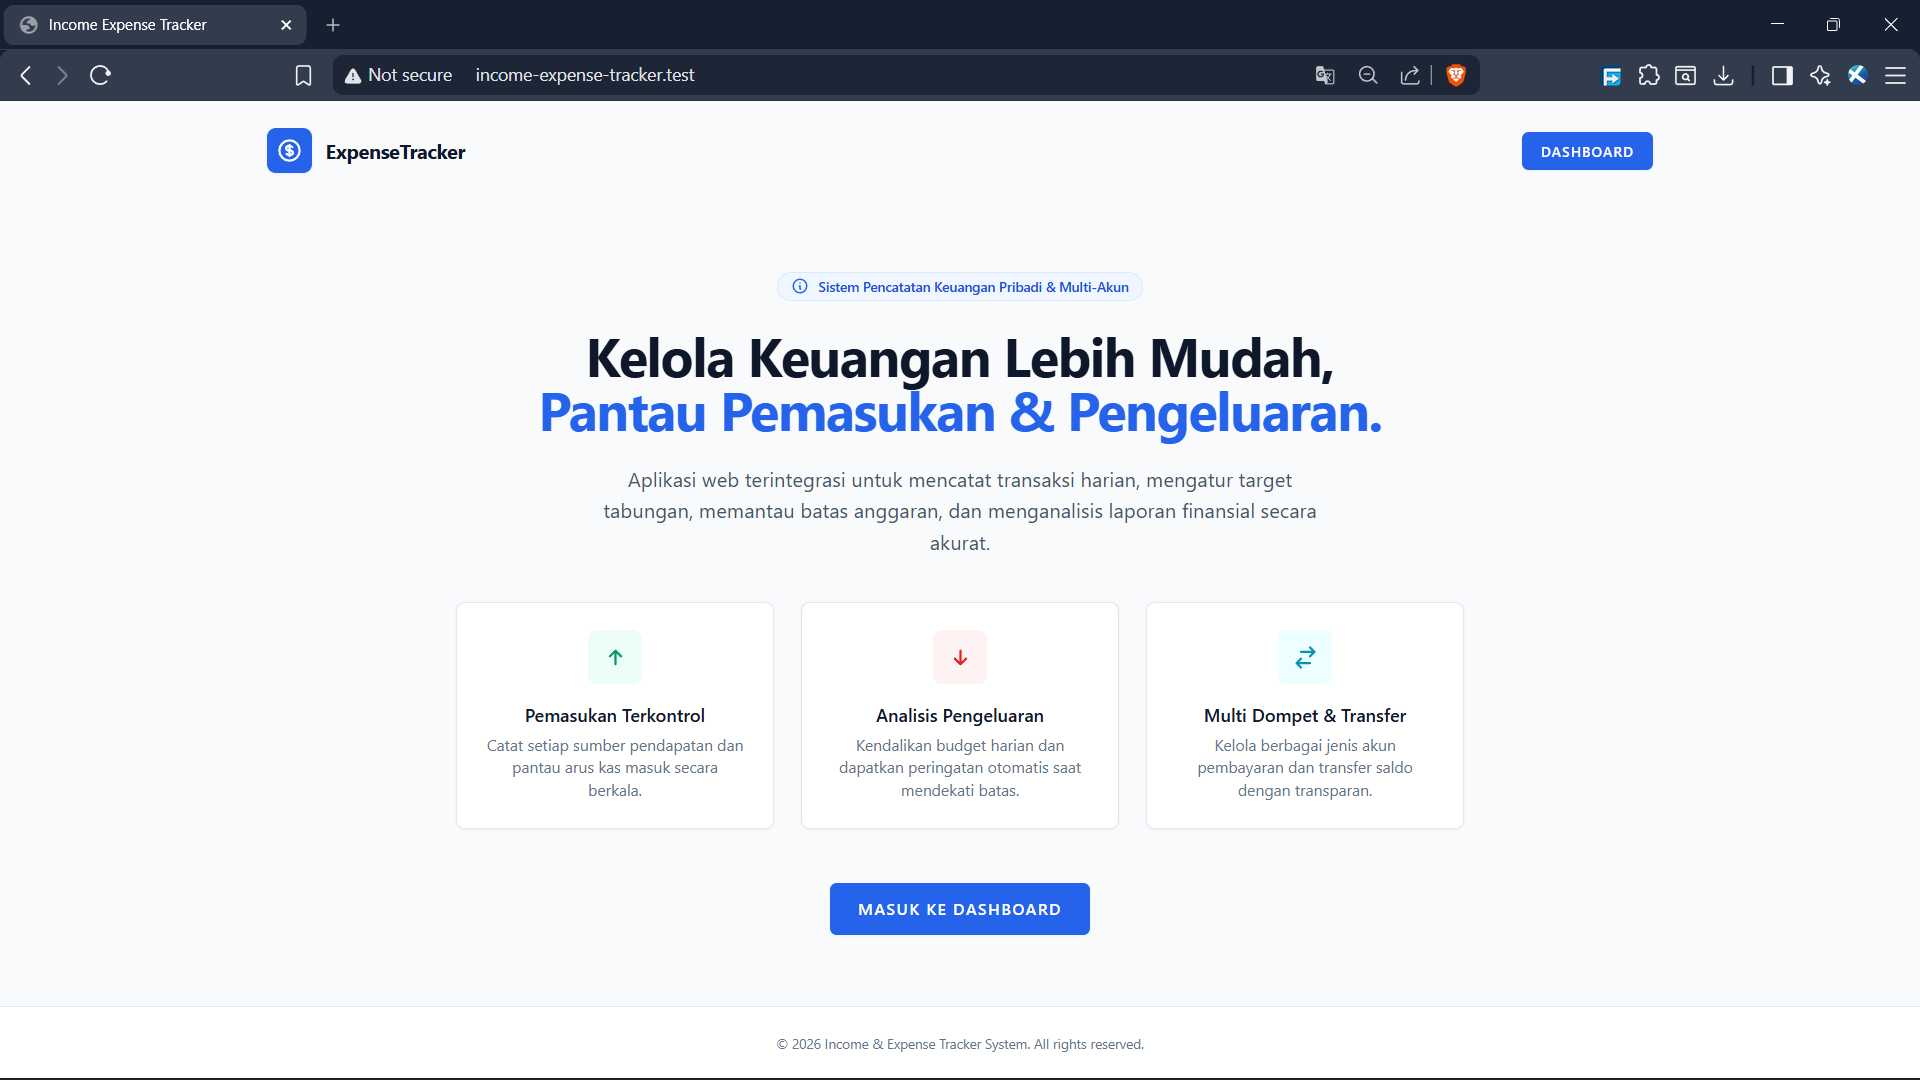
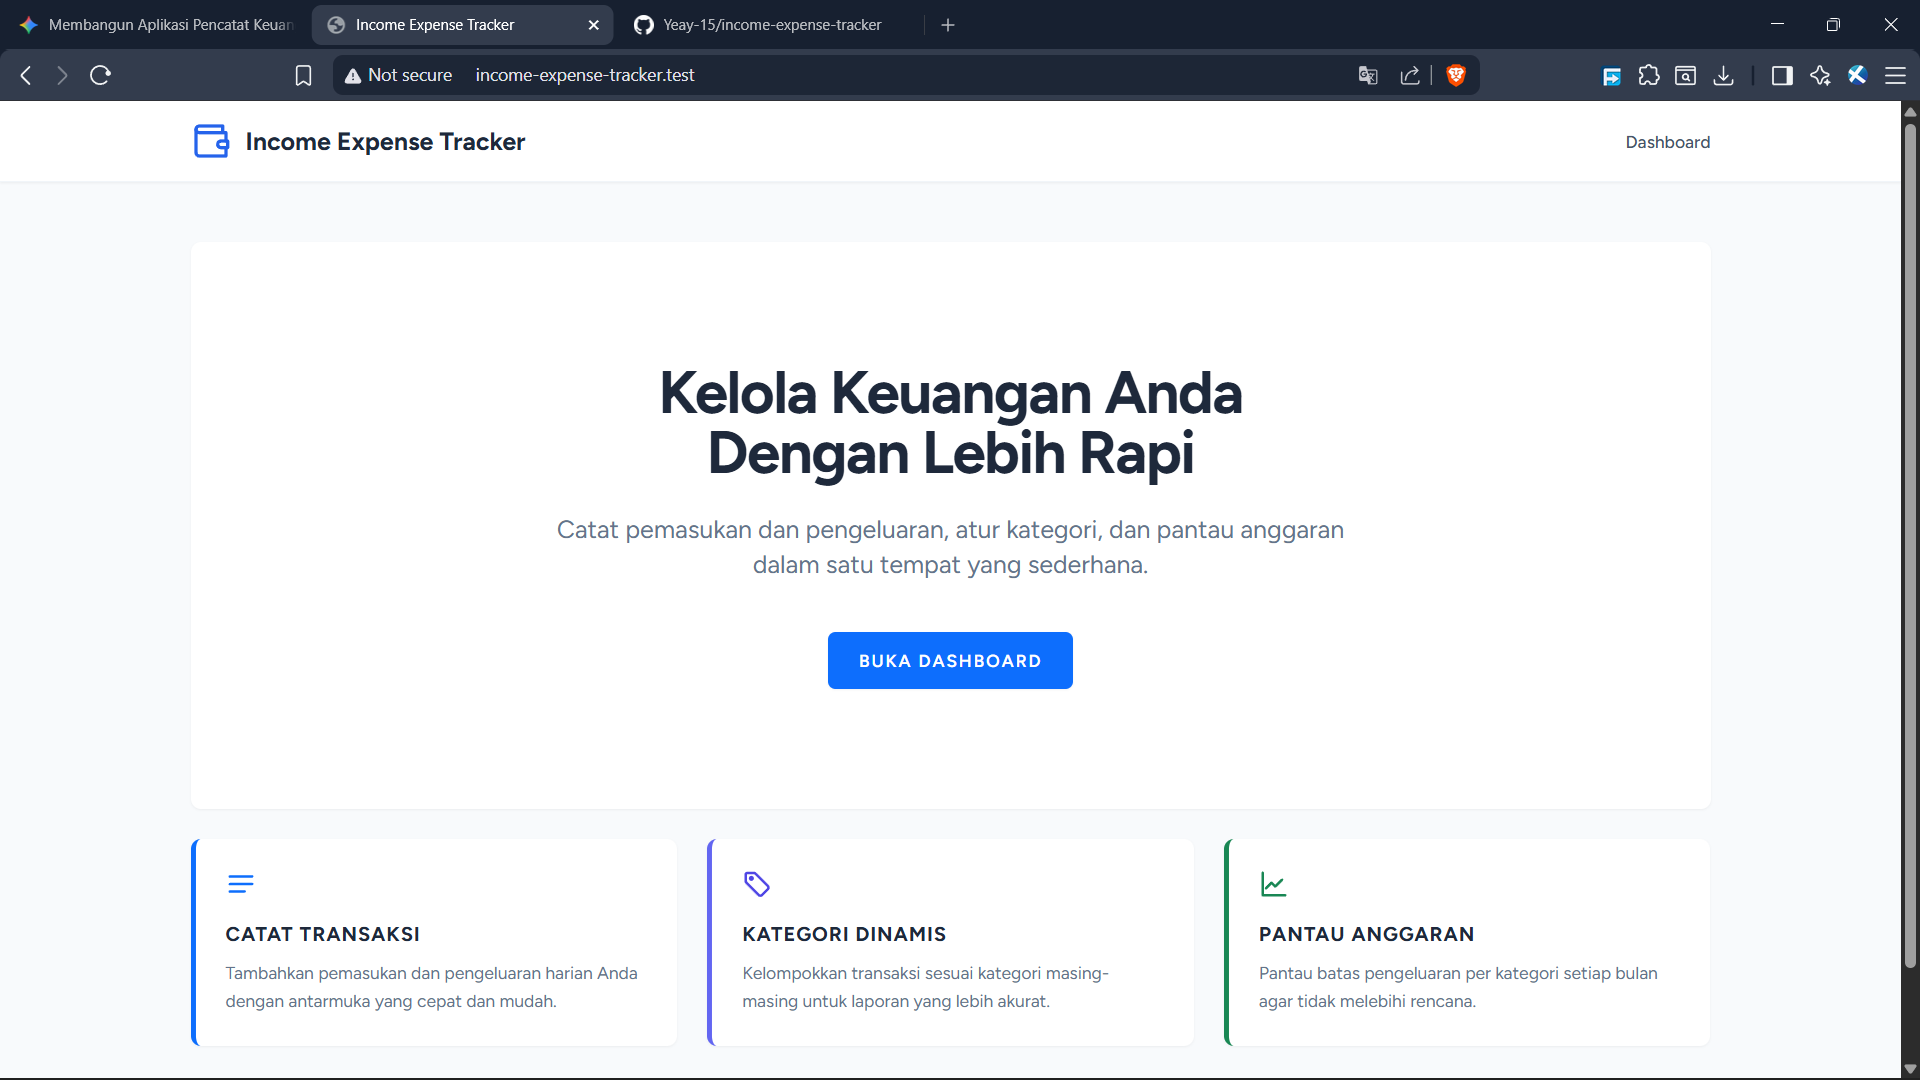
Fix Recurring and Homepage

diff --git a/resources/views/welcome.blade.php b/resources/views/welcome.blade.php
@@ -6,127 +6,136 @@
     <meta name="viewport" content="width=device-width, initial-scale=1">
     <title>{{ config('app.name', 'Income Expense Tracker') }}</title>
 
-    <!-- Styles / Scripts -->
+    <!-- Favicon -->
+    <link rel="icon" type="image/png" href="{{ asset('logo.png') }}">
+
+    <!-- Fonts -->
+    <link rel="preconnect" href="https://fonts.bunny.net">
+    <link href="https://fonts.bunny.net/css?family=figtree:400,500,600,700&display=swap" rel="stylesheet" />
+
     @vite(['resources/css/app.css', 'resources/js/app.js'])
 </head>
 
-<body class="bg-slate-50 text-slate-800 antialiased min-h-screen flex flex-col justify-between selection:bg-blue-600 selection:text-white">
+<body class="bg-slate-50 text-slate-800 antialiased font-sans">
 
-    <!-- Header / Navbar Landing -->
-    <header class="w-full max-w-7xl mx-auto px-6 py-6 flex items-center justify-between">
-        <div class="flex items-center space-x-3">
-            <div class="w-10 h-10 rounded-lg bg-blue-600 flex items-center justify-center text-white shadow-sm">
-                <svg class="w-6 h-6" fill="none" stroke="currentColor" viewBox="0 0 24 24">
-                    <path stroke-linecap="round" stroke-linejoin="round" stroke-width="2" d="M12 8c-1.657 0-3 .895-3 2s1.343 2 3 2 3 .895 3 2-1.343 2-3 2m0-8c1.11 0 2.08.402 2.599 1M12 8V7m0 1v8m0 0v1m0-1c-1.11 0-2.08-.402-2.599-1M21 12a9 9 0 11-18 0 9 9 0 0118 0z"></path>
-                </svg>
-            </div>
-            <span class="text-lg font-bold tracking-tight text-slate-900">ExpenseTracker</span>
-        </div>
+    {{-- Header --}}
+    <header class="bg-white shadow-sm border-b border-slate-100">
+        <div class="max-w-7xl mx-auto px-4 sm:px-6 lg:px-8 py-4 flex items-center justify-between">
 
-        @if (Route::has('login'))
-        <nav class="flex items-center space-x-3">
-            @auth
-            <a href="{{ url('/dashboard') }}" class="inline-flex items-center px-4 py-2 bg-blue-600 border border-transparent rounded-md font-semibold text-xs text-white uppercase tracking-widest hover:bg-blue-700 transition duration-150 ease-in-out shadow-sm">
-                Dashboard
-            </a>
-            @else
-            <a href="{{ route('login') }}" class="inline-flex items-center px-4 py-2 bg-white border border-slate-300 rounded-md font-semibold text-xs text-slate-700 uppercase tracking-widest hover:bg-slate-50 transition duration-150 ease-in-out">
-                Log in
-            </a>
-
-            @if (Route::has('register'))
-            <a href="{{ route('register') }}" class="inline-flex items-center px-4 py-2 bg-blue-600 border border-transparent rounded-md font-semibold text-xs text-white uppercase tracking-widest hover:bg-blue-700 transition duration-150 ease-in-out shadow-sm">
-                Register
-            </a>
-            @endif
-            @endauth
-        </nav>
-        @endif
-    </header>
-
-    <!-- Hero Section -->
-    <main class="flex-1 flex items-center justify-center px-6 py-12">
-        <div class="max-w-4xl mx-auto text-center">
-
-            <!-- Badge Info -->
-            <div class="inline-flex items-center space-x-2 bg-blue-50 border border-blue-100 px-3 py-1 rounded-full text-xs font-semibold text-blue-700 mb-6">
-                <svg class="w-4 h-4 text-blue-600" fill="none" stroke="currentColor" viewBox="0 0 24 24">
-                    <path stroke-linecap="round" stroke-linejoin="round" stroke-width="2" d="M13 16h-1v-4h-1m1-4h.01M21 12a9 9 0 11-18 0 9 9 0 0118 0z"></path>
-                </svg>
-                <span>Sistem Pencatatan Keuangan Pribadi & Multi-Akun</span>
+            {{-- Bagian Logo yang sudah disamakan dengan Navigasi --}}
+            <div class="flex items-center gap-3">
+                <x-application-logo class="block h-10 w-auto fill-current text-slate-800" />
+                <span class="font-bold text-xl text-slate-800">{{ config('app.name', 'Income Expense Tracker') }}</span>
             </div>
 
-            <h1 class="text-4xl sm:text-5xl font-bold tracking-tight text-slate-900 mb-6 leading-tight">
-                Kelola Keuangan Lebih Mudah,<br />
-                <span class="text-blue-600">Pantau Pemasukan & Pengeluaran.</span>
-            </h1>
-
-            <p class="text-lg text-slate-600 max-w-2xl mx-auto mb-10">
-                Aplikasi web terintegrasi untuk mencatat transaksi harian, mengatur target tabungan, memantau batas anggaran, dan menganalisis laporan finansial secara akurat.
-            </p>
-
-            <!-- Feature Highlights Cards -->
-            <div class="grid grid-cols-1 md:grid-cols-3 gap-6 text-left mb-12">
-
-                <!-- Card 1 -->
-                <div class="bg-white p-6 rounded-lg border border-slate-200 shadow-sm flex flex-col items-center text-center">
-                    <div class="w-12 h-12 rounded-lg bg-emerald-50 flex items-center justify-center text-emerald-600 mb-4 mx-auto">
-                        <svg class="w-6 h-6" fill="none" stroke="currentColor" viewBox="0 0 24 24">
-                            <path stroke-linecap="round" stroke-linejoin="round" stroke-width="2" d="M7 11l5-5m0 0l5 5m-5-5v12"></path>
-                        </svg>
-                    </div>
-                    <h3 class="font-semibold text-slate-900 mb-1">Pemasukan Terkontrol</h3>
-                    <p class="text-sm text-slate-500">Catat setiap sumber pendapatan dan pantau arus kas masuk secara berkala.</p>
-                </div>
-
-                <!-- Card 2 -->
-                <div class="bg-white p-6 rounded-lg border border-slate-200 shadow-sm flex flex-col items-center text-center">
-                    <div class="w-12 h-12 rounded-lg bg-red-50 flex items-center justify-center text-red-600 mb-4 mx-auto">
-                        <svg class="w-6 h-6" fill="none" stroke="currentColor" viewBox="0 0 24 24">
-                            <path stroke-linecap="round" stroke-linejoin="round" stroke-width="2" d="M17 13l-5 5m0 0l-5-5m5 5V6"></path>
-                        </svg>
-                    </div>
-                    <h3 class="font-semibold text-slate-900 mb-1">Analisis Pengeluaran</h3>
-                    <p class="text-sm text-slate-500">Kendalikan budget harian dan dapatkan peringatan otomatis saat mendekati batas.</p>
-                </div>
-
-                <!-- Card 3 -->
-                <div class="bg-white p-6 rounded-lg border border-slate-200 shadow-sm flex flex-col items-center text-center">
-                    <div class="w-12 h-12 rounded-lg bg-cyan-50 flex items-center justify-center text-cyan-600 mb-4 mx-auto">
-                        <svg class="w-6 h-6" fill="none" stroke="currentColor" viewBox="0 0 24 24">
-                            <path stroke-linecap="round" stroke-linejoin="round" stroke-width="2" d="M8 7h12m0 0l-4-4m4 4l-4 4m0 6H4m0 0l4 4m-4-4l4-4"></path>
-                        </svg>
-                    </div>
-                    <h3 class="font-semibold text-slate-900 mb-1">Multi Dompet & Transfer</h3>
-                    <p class="text-sm text-slate-500">Kelola berbagai jenis akun pembayaran dan transfer saldo dengan transparan.</p>
-                </div>
-
-            </div>
-
-            <!-- CTA Action Buttons -->
-            <div class="flex flex-col sm:flex-row items-center justify-center gap-4">
+            @if (Route::has('login'))
+            <nav class="flex items-center gap-4 text-sm font-medium">
                 @auth
-                <a href="{{ url('/dashboard') }}" class="w-full sm:w-auto inline-flex items-center justify-center px-6 py-3 bg-blue-600 border border-transparent rounded-md font-semibold text-sm text-white uppercase tracking-widest hover:bg-blue-700 transition duration-150 ease-in-out shadow-sm">
-                    Masuk ke Dashboard
+                <a href="{{ url('/dashboard') }}" class="text-slate-600 hover:text-primary-600 transition">
+                    Dashboard
                 </a>
                 @else
-                <a href="{{ route('login') }}" class="w-full sm:w-auto inline-flex items-center justify-center px-6 py-3 bg-blue-600 border border-transparent rounded-md font-semibold text-sm text-white uppercase tracking-widest hover:bg-blue-700 transition duration-150 ease-in-out shadow-sm">
-                    Mulai Kelola Keuangan
+                <a href="{{ route('login') }}" class="text-slate-600 hover:text-primary-600 transition">
+                    Log in
                 </a>
-                <a href="{{ route('register') }}" class="w-full sm:w-auto inline-flex items-center justify-center px-6 py-3 bg-white border border-slate-300 rounded-md font-semibold text-sm text-slate-700 uppercase tracking-widest hover:bg-slate-50 transition duration-150 ease-in-out">
-                    Buat Akun Baru
+                @if (Route::has('register'))
+                <a href="{{ route('register') }}"
+                    class="inline-flex items-center px-4 py-2 bg-primary-600 border border-transparent rounded-md font-semibold text-xs text-white uppercase tracking-widest hover:bg-primary-700 focus:outline-none focus:ring-2 focus:ring-primary-500 focus:ring-offset-2 transition ease-in-out duration-150 shadow-sm">
+                    Register
                 </a>
+                @endif
                 @endauth
+            </nav>
+            @endif
+        </div>
+    </header>
+
+    {{-- Body --}}
+    <div class="py-12">
+        <div class="max-w-7xl mx-auto sm:px-6 lg:px-8 space-y-6">
+
+            {{-- Hero Section --}}
+            <div class="bg-white overflow-hidden shadow-sm rounded-lg">
+                <div class="px-6 py-16 sm:py-24 text-center">
+                    <h2 class="font-bold text-3xl sm:text-5xl text-slate-800 leading-tight tracking-tight">
+                        Kelola Keuangan Anda <br class="hidden sm:block"> Dengan Lebih Rapi
+                    </h2>
+                    <p class="mt-6 text-lg sm:text-xl text-slate-500 max-w-2xl mx-auto leading-relaxed">
+                        Catat pemasukan dan pengeluaran, atur kategori, dan pantau anggaran
+                        dalam satu tempat yang sederhana.
+                    </p>
+
+                    <div class="mt-10 flex flex-col sm:flex-row items-center justify-center gap-4">
+                        @auth
+                        <a href="{{ url('/dashboard') }}"
+                            class="w-full sm:w-auto inline-flex justify-center items-center px-6 py-3 bg-primary-600 border border-transparent rounded-md font-semibold text-sm text-white uppercase tracking-widest hover:bg-primary-700 focus:outline-none focus:ring-2 focus:ring-primary-500 focus:ring-offset-2 transition ease-in-out duration-150 shadow-sm">
+                            Buka Dashboard
+                        </a>
+                        @else
+                        @if (Route::has('register'))
+                        <a href="{{ route('register') }}"
+                            class="w-full sm:w-auto inline-flex justify-center items-center px-6 py-3 bg-primary-600 border border-transparent rounded-md font-semibold text-sm text-white uppercase tracking-widest hover:bg-primary-700 focus:outline-none focus:ring-2 focus:ring-primary-500 focus:ring-offset-2 transition ease-in-out duration-150 shadow-sm">
+                            Mulai Sekarang
+                        </a>
+                        @endif
+                        <a href="{{ route('login') }}"
+                            class="w-full sm:w-auto inline-flex justify-center items-center px-6 py-3 bg-white border-2 border-slate-200 rounded-md font-semibold text-sm text-slate-700 uppercase tracking-widest hover:bg-slate-50 focus:outline-none focus:ring-2 focus:ring-primary-500 focus:ring-offset-2 transition ease-in-out duration-150 shadow-sm">
+                            Log in
+                        </a>
+                        @endauth
+                    </div>
+                </div>
             </div>
 
+            {{-- Feature cards --}}
+            <div class="grid grid-cols-1 md:grid-cols-3 gap-6">
+
+                <div class="bg-white overflow-hidden shadow-sm rounded-lg border-l-4 border-primary-600">
+                    <div class="p-6">
+                        <svg class="w-6 h-6 text-primary-600 mb-4" viewBox="0 0 24 24" fill="none" stroke="currentColor" stroke-width="2" stroke-linecap="round" stroke-linejoin="round">
+                            <path d="M3 6h18M3 12h18M3 18h12" />
+                        </svg>
+                        <div class="text-base font-bold text-slate-800 uppercase tracking-wider mb-2">Catat Transaksi</div>
+                        <p class="text-sm text-slate-500 leading-relaxed">
+                            Tambahkan pemasukan dan pengeluaran harian Anda dengan antarmuka yang cepat dan mudah.
+                        </p>
+                    </div>
+                </div>
+
+                <div class="bg-white overflow-hidden shadow-sm rounded-lg border-l-4 border-indigo-500">
+                    <div class="p-6">
+                        <svg class="w-6 h-6 text-indigo-600 mb-4" viewBox="0 0 24 24" fill="none" stroke="currentColor" stroke-width="2" stroke-linecap="round" stroke-linejoin="round">
+                            <path d="M20.59 13.41 11 3.83A2 2 0 0 0 9.59 3.17H4a1 1 0 0 0-1 1v5.59a2 2 0 0 0 .66 1.41l9.59 9.59a2 2 0 0 0 2.83 0l4.51-4.51a2 2 0 0 0 0-2.83Z" />
+                            <circle cx="7.5" cy="7.5" r="1" />
+                        </svg>
+                        <div class="text-base font-bold text-slate-800 uppercase tracking-wider mb-2">Kategori Dinamis</div>
+                        <p class="text-sm text-slate-500 leading-relaxed">
+                            Kelompokkan transaksi sesuai kategori masing-masing untuk laporan yang lebih akurat.
+                        </p>
+                    </div>
+                </div>
+
+                <div class="bg-white overflow-hidden shadow-sm rounded-lg border-l-4 border-success-600">
+                    <div class="p-6">
+                        <svg class="w-6 h-6 text-success-600 mb-4" viewBox="0 0 24 24" fill="none" stroke="currentColor" stroke-width="2" stroke-linecap="round" stroke-linejoin="round">
+                            <path d="M3 3v18h18" />
+                            <path d="M18.4 8.6 13 14l-3-3-4.4 4.4" />
+                        </svg>
+                        <div class="text-base font-bold text-slate-800 uppercase tracking-wider mb-2">Pantau Anggaran</div>
+                        <p class="text-sm text-slate-500 leading-relaxed">
+                            Pantau batas pengeluaran per kategori setiap bulan agar tidak melebihi rencana.
+                        </p>
+                    </div>
+                </div>
+
+            </div>
+
+            <p class="text-center text-sm font-medium text-slate-400 mt-12 pb-4">
+                &copy; {{ date('Y') }} {{ config('app.name', 'Income Expense Tracker') }}
+            </p>
+
         </div>
-    </main>
-
-    <!-- Footer -->
-    <footer class="w-full py-6 text-center text-xs text-slate-500 border-t border-slate-200 bg-white">
-        <p>&copy; {{ date('Y') }} Income & Expense Tracker System. All rights reserved.</p>
-    </footer>
-
+    </div>
 </body>
 
 </html>

diff --git a/app/Http/Controllers/RecurringTransactionController.php b/app/Http/Controllers/RecurringTransactionController.php
@@ -46,7 +46,23 @@ class RecurringTransactionController extends Controller
         ]);
 
         $validated['user_id'] = $userId;
-        $validated['next_run_date'] = $validated['start_date'];
+
+        // --- LOGIKA PINTAR PENENTUAN TANGGAL ---
+        $startDate = Carbon::parse($validated['start_date']);
+
+        if ($validated['frequency'] === 'monthly' && !empty($validated['day_of_month'])) {
+            $nextRun = $startDate->copy()->day((int) $validated['day_of_month']);
+
+            // Jika tanggal 10 sudah lewat dari start date (misal start date 21), geser ke bulan depan
+            if ($nextRun->isBefore($startDate)) {
+                $nextRun->addMonth();
+            }
+            $validated['next_run_date'] = $nextRun->toDateString();
+        } else {
+            // Jika harian/mingguan/tahunan, ikuti start_date
+            $validated['next_run_date'] = $startDate->toDateString();
+        }
+
         unset($validated['start_date']);
 
         RecurringTransaction::create($validated);
@@ -74,12 +90,32 @@ class RecurringTransactionController extends Controller
         }
 
         $validated = $request->validate([
+            'account_id' => ['required', 'exists:accounts,id,user_id,' . Auth::id()],
+            'category_id' => ['required', 'exists:categories,id'],
+            'type' => ['required', 'in:income,expense'],
             'amount' => ['required', 'numeric', 'min:0.01'],
             'description' => ['required', 'string', 'max:255'],
+            'frequency' => ['required', 'in:daily,weekly,monthly,yearly'],
+            'day_of_month' => ['nullable', 'integer', 'between:1,31', 'required_if:frequency,monthly'],
             'is_active' => ['nullable', 'boolean'],
         ]);
 
         $validated['is_active'] = $request->boolean('is_active');
+
+        // --- REKALKULASI TANGGAL JIKA DIEDIT ---
+        if ($validated['frequency'] === 'monthly' && !empty($validated['day_of_month'])) {
+            $today = Carbon::today();
+            $nextRun = $today->copy()->day((int) $validated['day_of_month']);
+
+            // Jika tanggal yang diinput sudah lewat dari hari ini, jadwalkan untuk bulan depan
+            if ($nextRun->isBefore($today)) {
+                $nextRun->addMonth();
+            }
+            $validated['next_run_date'] = $nextRun->toDateString();
+        } elseif ($recurring->frequency !== $validated['frequency']) {
+            // Jika user mengubah frekuensi dari bulanan ke harian/mingguan, reset mulai hari ini
+            $validated['next_run_date'] = Carbon::today()->toDateString();
+        }
 
         $recurring->update($validated);
 

diff --git a/resources/views/layouts/navigation.blade.php b/resources/views/layouts/navigation.blade.php
@@ -36,6 +36,10 @@
                     <x-nav-link :href="route('saving-goals.index')" :active="request()->routeIs('saving-goals.*')">
                         {{ __('Savings') }}
                     </x-nav-link>
+
+                    <x-nav-link :href="route('recurring.index')" :active="request()->routeIs('recurring.*')">
+                        {{ __('Rutin') }}
+                    </x-nav-link>
                     <!-- Akhir Tambahan Menu Desktop -->
 
                     <!-- Admin Area Dropdown (Visible only to Admin) -->
@@ -178,6 +182,11 @@
             <x-responsive-nav-link :href="route('saving-goals.index')" :active="request()->routeIs('saving-goals.*')">
                 {{ __('Savings') }}
             </x-responsive-nav-link>
+
+            <x-responsive-nav-link :href="route('recurring.index')" :active="request()->routeIs('recurring.*')">
+                {{ __('Transaksi Berulang') }}
+            </x-responsive-nav-link>
+
 
             <!-- Menu Admin Area untuk Mobile (Hanya untuk Admin) -->
             @if(Auth::user()->role === 'admin')

diff --git a/README.md b/README.md
@@ -158,10 +158,11 @@ Untuk produksi, daftarkan cron job berikut di server:
 ![Accounts](docs/accounts.png)
 ![Categories](docs/categories.png)
 
-### 4. Transaksi, Budget & Target Tabungan
+### 4. Transaksi, Budget, Target Tabungan & Transaksi Berulang (Recurring)
 ![Transactions](docs/transactions.png)
 ![Budgets](docs/budgets.png)
 ![Savings](docs/savings.png)
+![Recurring](docs/recurring.png)
 
 ### 5. Panel Admin & Pemisahan Hak Akses
 